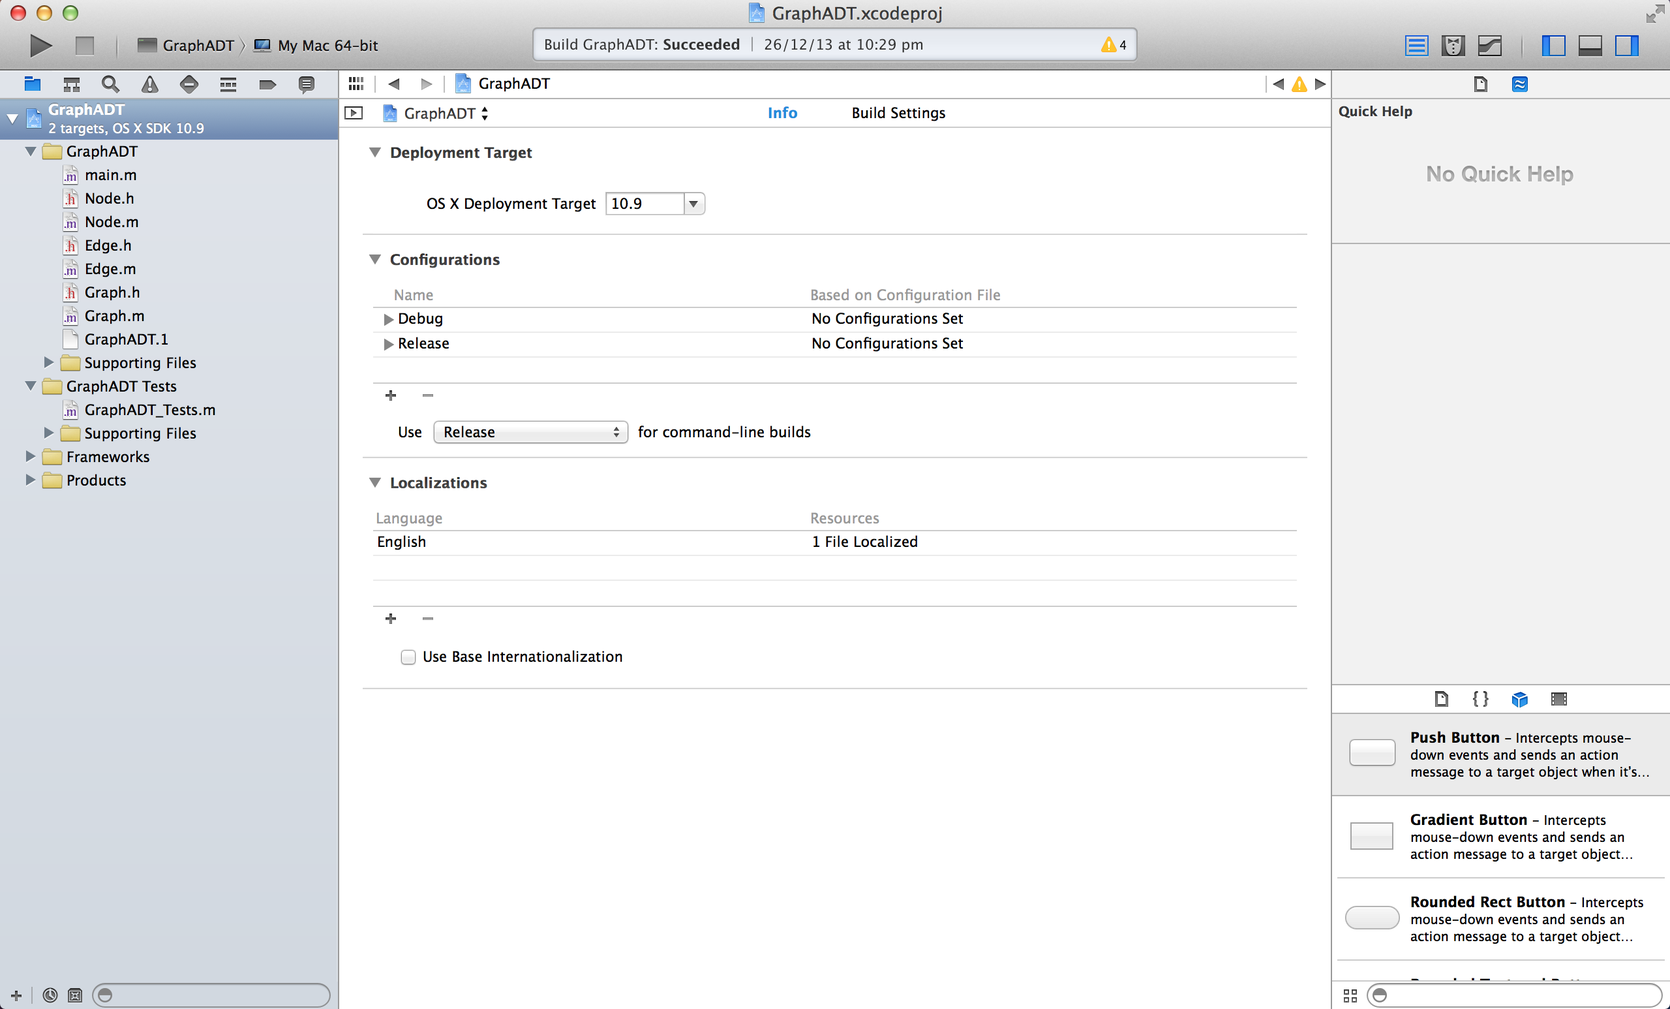
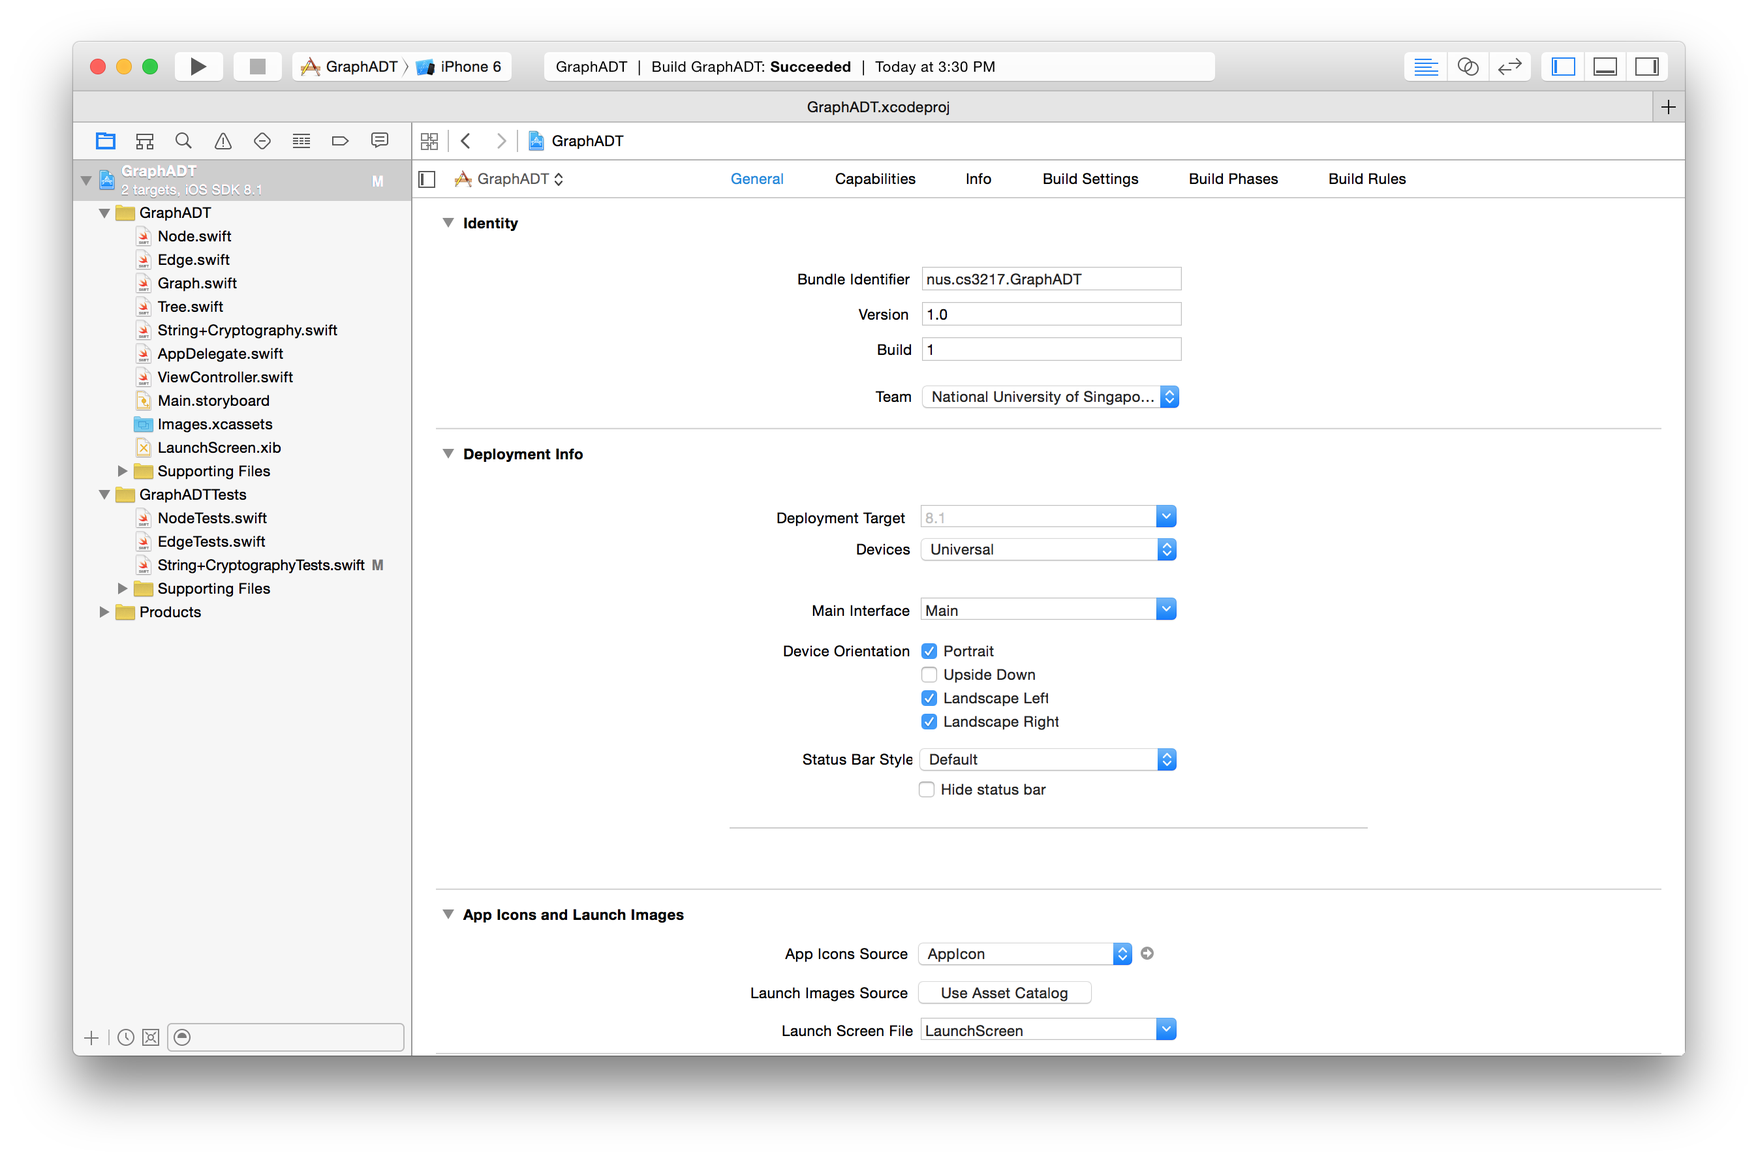
[PS2] Updated problem set's writeup for Swift

diff --git a/public/ps/PS2/PS2.md b/public/ps/PS2/PS2.md
@@ -12,7 +12,7 @@ Section 1 - Introduction
 
 This assignment will prepare you for the application that you are going to build over the next 5 weeks. This application is a bubble puzzle game similar to BubbleMania. The objective is to shoot bubbles of different colours so that they adhere to other bubbles that are already in the game area. Three or more connected bubbles of the same colour will be removed from the game areas. Any bubbles left unattached to the top will also be removed. 
 
-In this assignment, you will practice reading and interpreting specifications, and writing Objective-C code that satisfies our specifications. In addition, you will be given an introduction to using checkRep methods and testing strategies. You will implement three classes and link them with the code provided to complete the implementation of a Graph ADT. You will be required to answer some questions about both the code you are given and the code you need to write.
+In this assignment, you will practice reading and interpreting specifications, and writing Swift code that satisfies our specifications. In addition, you will be given an introduction to using `checkRep` methods and testing in Xcode 6. You will implement three classes and link them with the code provided to complete the implementation of a Graph ADT. You will be required to answer some questions about both the code you are given and the code you need to write.
 
 A video of what your app might look like is shown in Interactive 3.1. Note that while the grading of the problem sets will be done separately, you will eventually have to integrate all the parts together. You should put effort into ensuring that each problem set is fully debugged before you move on or you will run into a lot of problems when you try to integrate all the parts in a few weeks.
 
@@ -22,7 +22,7 @@ A video of what your app might look like is shown in Interactive 3.1. Note that 
 
 You should now have received your distributed iPad. It’s time to try installing an application onto your iPad for testing.
 
-To do so, you must ensure your computer and iPad device is configured for iOS development. Make sure your iPad is plugged in, start Xcode and open Organizer from **Window** menu.If this is the first time using the device for development, select your device in Organizer and press **Use for Development**.
+To do so, you must ensure your computer and iPad device is configured for iOS development. Make sure your iPad is plugged in, start Xcode and open **Devices** from **Window** menu. If this is the first time using the device for development, Xcode 6 will automatically enable Developer Mode on your device.
 
 If there is no certificate created, Xcode will ask you if you want Xcode to submit certificate request automatically. Say YES. Request will show online on developer portal and has to be approved by an admin user. If Xcode does not prompt you to request a certificate, click **Refresh** in **Provisioning Profiles** under **Library**.
 
@@ -36,9 +36,7 @@ If you have a yellow/orange dot, select the iOS Team Provisioning profile and hi
  
 All students use their own certificates, issued on the Mac they connected first. If they wanna use another Mac, they must export and import their profile from Xcode by themselves.
 
-Students may need to install the WWDC certificate authority, which can be downloaded from the online developer portal. 
-
- Once that’s done, let’s try to install a very simple application, in fact, just a blank application. Create a single-view iPad application, named **DeviceTest**. Make sure you fill in `nus.cs3217` (case sensitive) as your company. Then change the target platform from simulator to iPad in the scheme selector in the top part of the IDE. Run your application and see that it can be loaded into iPad to run. Now that you are able to successfully deploy an application on the iPad, you can do the same for your future applications by applying similar steps.
+ Once that’s done, let’s try to install a very simple application, in fact, just a blank application. Create a single-view iPad application, named **DeviceTest**. Make sure you fill in `nus.cs3217` (case sensitive) as your company. Then change the target platform from simulator to your iPad in the scheme selector in the Toolbar. Run your application and see that it can be loaded into iPad to run. Now that you are able to successfully deploy an application on the iPad, you can do the same for your future applications by applying similar steps.
 
 Section 2 - Background
 --
@@ -75,15 +73,17 @@ Interpreting an abstract type involves understanding its specifications -  what 
 
 ### Problem 1: Designing the Graph ADT (20 Points) ###
 
-Now let’s take a look at the first two ADTs, *Node* and *Edge*. You are provided with an Xcode project called `GraphADT` in `problem-set-2/GraphADT`. Double click `ps2.xcodeproj` to open the project template. Read the specifications for *Node* in `Node.h`, representing individual vertices, and for *Edge* in `Edge.h`, representing edges in the graph. Then read over the staff-provided implementations, `Node.m` and `Edge.m`.
+Now let’s take a look at the first two ADTs, *Node* and *Edge*. You are provided with an Xcode project called `GraphADT` in `problem-set-2/GraphADT`. Read the specifications and implementation for *Node* in `Node.swift`, representing individual vertices, and for *Edge* in `Edge.swift`, representing edges in the graph.
 
 Answer the following questions in `design.txt`:
 
 1. The `isEqual:` methods in *Node* and *Edge* require that object != nil. This is because these methods access the fields of 'object' without checking if 'object' is null first. Why do we require `self` to be non-null? What happens when we pass a message to a nil pointer? Explain. **(5 points)**
 
-2. Calls to `checkRep:` are supposed to catch violations in the classes’ invariants. In general, it is recommended that one calls `checkRep:` at the beginning and end of every method. In the case of *Node* and *Edge*, why is it sufficient to call `checkRep:` only at the end of the constructors? (Hint: could a method ever modify a *Node* or *Edge* such that it violates its representation invariant? How are changes to instances of *Node* and *Edge* prevented?) **(5 points)**
+1. Calls to `_checkRep()` are supposed to catch violations in the classes’ invariants. In general, it is recommended that one calls `_checkRep()` at the beginning and end of every method. In the case of *Edge*, why is it sufficient to call `_checkRep()` only at the end of the constructors? (Hint: could a method ever modify a *Edge* such that it violates its representation invariant? How are changes to instances of and *Edge* prevented?) **(5 points)**
 
-3. For *Node* and *Edge*, we could provide a separate method such as `isEquivalentTo:` to test whether two objects represent the same Node or Edge instead of overriding the `isEqual:` method of NSObject. Why is it necessary to override the `isEqual:` methods in these classes? (Hint: methods like `containsObject:`,  `indexOfObject:` for NSArray, and `addObject:` for NSMutableSet call the `isEqual:` method of the collection objects to test for equality). Explain. **(5 points)**
+2. For *Node* and *Edge*, we could provide a method such as `isEqualTo(node:)` or `isEqualTo(edge:)` to test whether two instances represent the same Node or Edge instead of defining the global `==` operator. Why is it necessary to define the operator `==` in global scope? **(5 points)**
+
+3. Why do *Node* and *Edge* have to conform the *Hashable* protocol? **(5 points)**
 
 4. There are several ways to represent a graph. Here are a few:
  * As a collection of edges
@@ -94,13 +94,13 @@ Answer the following questions in `design.txt`:
 
 ### Problem 2: Implementing the Graph ADT (100 Points) ###
 
-Read over the specifications provided for the *Graph* class in `Graph.h`. Make sure that you understand the overview for *Graph* and the specifications for the given methods.
+Read over the specifications provided for the *Graph* class in `Graph.swift`. Make sure that you understand the overview for *Graph* and the specifications for the given methods.
 
-Fill in an implementation for the methods in the definition of *Graph*, according to the specifications. You may define new helper methods in `Graph.m` if you need them. You may not add public methods; the external interface must remain the same. Also implement the private `checkRep:` method to help you test whether or not a *Graph* instance violates the representation invariants. We highly recommend you use `checkRep:` in the code you write. Think about the issues discussed in **Problem 1.2** when deciding where `checkRep:` should be called. **(80 points)**
+Fill in an implementation for the methods in the definition of *Graph*, according to the specifications. You may define new helper methods in `Graph.swift` if you need them. However, you should the declare them as private so they are not exposed to other source files in the project. Also implement the private `_checkRep()` method to help you test whether or not a *Graph* instance violates the representation invariants. We highly recommend you use `_checkRep()` in the code you write. Think about the issues discussed in **Problem 1.2** when deciding where `_checkRep()` should be called. **(80 points)**
 
 Answer the following questions in `design.txt`:
 
-1. Where did you include calls to `checkRep:` (at the beginning of methods, the end of methods, the beginning of constructors, the end of constructors, some other combination)? Why? **(5 points)**
+1. Where did you include calls to `_checkRep()` (at the beginning of methods, the end of methods, the beginning of constructors, the end of constructors, some other combination)? Why? **(5 points)**
 
 2. In Problem 1.4, you have explored the different types of graph representations. Briefly explain why you chose that representation to implement the Graph ADT. **(5 points)**
 
@@ -110,7 +110,7 @@ Answer the following questions in `design.txt`:
 
 ### Problem 3: Testing the Graph ADT (30 Points) ###
 
-It is a very good practice to write unit tests for your ADTs. They help you make sure you don’t break your program when you make changes. The Unit Tests for *Node* and *Edge* have been created for you. Please follow the step-by-step instructions in Gallery 3.1 to run the unit test for Graph ADT.
+It is a must to write unit tests for your ADTs. They help you make sure you don’t break your program when you make changes. The Unit Tests for *Node* and *Edge* have been created for you. Please follow the step-by-step instructions in Gallery 3.1 to run the unit test for Graph ADT.
 
 **Gallery 3.1** Run unit test for GraphADT in Xcode.
 
@@ -120,50 +120,87 @@ It is a very good practice to write unit tests for your ADTs. They help you make
 
 ![Test Project](/ps/ps2/img/2-2.png)
 
-**Step 2:** Then, select `Product -> Test` (or use the ⌘+U shortcut key) to perform unit testing.
+**Step 2:** Then, select **Product → Test** (or use the ⌘+U shortcut key) to perform unit testing.
 
 ![Test Results](/ps/ps2/img/2-3.png)
 
-**Step 3:** Check your test results by switching to the **Log Navigator** and select the first item *Test* under *GraphADT*. If you have done everything correctly, you should see a series of green checks indicating all the unit tests have passed successfully.
+**Step 3:** Check your test results by switching to the **Test Navigator**. If you have done everything correctly, you should see a series of green checks indicating all the unit tests have passed successfully.
 
-Now, you are required to add your own unit test cases for the methods of *Graph* in `GraphADT_Tests.m`. Make sure your implementation passes all the test cases you provide. Do note that this is not a time-wasting practice! It gives you peace of mind by minimising your bugs before submission. :) **(30 points)**
+Now, you are required to add your own unit test cases for the methods of *Graph* in `GraphTests.swift`. Make sure your implementation passes all the test cases you provide. Do note that this is not a time-wasting practice! It gives you peace of mind by minimising your bugs before submission. :) **(30 points)**
 
 ### Problem 4: Extending the Graph ADT (50 Points) ###
 In this problem, you are going to use a tree to cipher and decipher texts. The cipher and decipher functions are defined as follows:
 
-* **Cipher**: perform string-to-tree with breadth first and then tree-to-string with depth-first
-* **Decipher**: perform string-to-tree with depth first and then tree-to-string with breadth-first
+* **Cipher**: perform string-to-tree with breadth-first order and then tree-to-string with depth-first order
+* **Decipher**: perform string-to-tree with depth-first order and then tree-to-string with breadth-first order
 
-In order to perform the string-to-tree conversions, you will be provided with a **key**. This key specifies the number of children for every letter in the string. 
+In order to perform the string-to-tree conversions, you will be provided with a **key**. This key specifies the number of children for every letter in the string (or the number of children of each node in the intermediate tree). The intermediate tree is a perfect tree which means that:
 
-As an example, consider the string **HELLO WORLD**. When performing the cipher operation with the **key as 2**, the breadth-first string-to-tree conversion would result in the following tree:
+ - Every node other than the leaves has exactly k children.
+ - All leaves have the same depth.
+
+For example, consider the string **HELLO WORLD**. When performing the cipher operation with the **key as 2**, the breadth-first string-to-tree conversion would result in the following tree:
 
 ![Cipher Tree](/ps/ps2/img/cipher-tree.png)
 
-Here, we need to append some 'special nodes' to the end of the tree to conform to the key. In the given example, **+** denotes a whitespace while ***** represents a special node. 
+In order to create a perfect binary tree, we need to append some 'special nodes' with a string label **\*** to the end of the tree to conform to the key. You can assume that the input string has no **\*** character. (Note that the empty node in the diagram represents the space in the original string.)
 
-In the second part of the cipher operation, this tree is converted to a string using the depth-first approach. This would result in the following string: **HELOROLDL \*\*W\*\***. 
+In the second part of the cipher operation, this tree is converted to a string using the depth-first approach. This would result in the following string: **HELOROLDL \*\*W**. Note that the special characters must be removed if they appears at the end of the string after the conversion.
 
-If this resultant string is used as the input for the decipher operation using the same key, then it should give back the initial string i.e. **HELLO WORLD**.
+If this resultant string is used as the input for the decipher operation using the same key, it should give back the initial string i.e. **HELLO WORLD**.
 
 Now, follow the steps described below to implement the cipher/decipher functionalities:
 
-1. First, you must design and implement an ADT for a *Tree* in new files named `Tree.h` and `Tree.m`. You may extend the Graph ADT used in the previous problems or use a different representation for the *Tree*. You should provide a suitable specification for the ADT and also define the representation invariant properly. You may add new files to the project to support your implementation. However, you are required to mention them in `design.txt`.
+1. First, you must design and implement a Tree ADT in `Tree.swift`. You may extend the Graph ADT created in the previous problems or use a different representation for the *Tree*. You should provide a suitable specification for the ADT and also define the representation invariant properly. You may add new files to the project to support your implementation. However, you are required to mention them in `design.txt`.
 
-2. Now, write a class category for NSString that implements the following two methods:
+2. Write a class extension for `String` in `String+Cryptograph.swift` that implements the following 4 methods:
 
- - `- (Tree*)breadthFirstStringToTree:(NSNumber*)key`
- - `- (Tree*)depthFirstStringToTree:(NSNumber*)key`
+```
+
+   //  Return a string encrypted by using `key`.
+   func cipherWithKey(key: Int) -> String
+
+   //  Return a string decrypted by using `key`.
+   func decipherWithKey(key: Int) -> String
+
+   //  Return a tree with String labels such that when performing 
+   //  a breath-first traversal on this tree, its labels appear in 
+   //  the same order that they appear from left to right of the 
+   //  string `self`.
+   //
+   //  In other words,
+   //  str.breadthFirstToTreeWithNumberOfChildren(n).breadthFirstToString() == str
+   func breadthFirstToTreeWithNumberOfChildren(numberOfChildren: Int) -> Tree<String>
+
+   //  Return a tree with String labels such that when performing 
+   //  a depth-first traversal on this tree, its labels appear in
+   //  the same order that they appear from left to right of the 
+   //  string `self`.
+   //
+   //  In other words,
+   //  str.depthFirstToTreeWithNumberOfChildren(n).depthFirstToString() == str
+   func depthFirstToTreeWithNumberOfChildren(numberOfChildren: Int) -> Tree<String>
+
+```
 
  Your algorithm will need to append the 'special nodes' to the end of the tree to conform to the keys.
 
-3. Add the following two methods to the *Tree* ADT you had implemented earlier:
- - `- (NSString*)breadthFirstTreeToString:(NSNumber*)key`
- - `- (NSString*)depthFirstTreeToString:(NSNumber*)key`
+3. Implement the following two methods in the extension of the *Tree* ADT in `Tree.swift`:
 
- Your algorithm will need to deal with the 'special nodes' in the tree appropriately.
+```
+   //  Return a string that represents the tree when it is traversed
+   //  in breadth-first order.
+   func breadthFirstToString() -> String
+ 
+   //  Return a string that represents the tree when it is traversed
+   //  in depth-first order.
+   func depthFirstToString() -> String
+```
 
-4. Write appropriate test cases in `GraphADT_Tests.m` to test the cipher and decipher functionalities. Keep in mind that given a string, performing the cipher operation followed by the decipher operation using the same key should produce the same string.  
+ Your algorithm will need to deal with the 'special nodes' in the tree appropriately. Remember that those special nodes with the label **\*** should not appear at the end of the converted string. Also you can assume that nodes' labels are convertible to String and can be concatenated into a final String. The label of type `T` can be 
+converted to a String via String interpolationn e.g. "\(node.label)".
+
+4. Write appropriate test cases in `TreeTests.swift` and `String+CryptographyTests.swift` to test the Tree ADT, the cipher and decipher functionalities. Keep in mind that given a string, performing the cipher operation followed by the decipher operation using the same key should produce the same string.  
 
 ### Bonus Problem: Reflection (3 Bonus Points) ###
 Please answer the following questions:
@@ -179,10 +216,9 @@ Section 4 - Grading and Submission
 Please read this section carefully so that you fully understand the grading scheme and the mode of submission!
 
 ### Grading Scheme ###
-The simplest way to ensure that you get a good grade on your assignment is to simply go through the list of testing items. Most of the reasons we mark an assignment down could very easily be avoided by simply taking a few minutes to go through each of the testing points before submitting. For this assignment, testing/ grading will be done by running the project in the simulator. We will be looking out for the following:
+The simplest way to ensure that you get a good grade on your assignment is to simply go through the list of testing items. Most of the reasons we mark an assignment down could very easily be avoided by simply taking a few minutes to go through each of the testing points before submitting. For this assignment, testing/ grading will be done by running the project through your set of test cases and then our additional ones. We will be looking out for the following:
 
 - Your submission should adhere to the submission format.
-- Your interface must be neat.
 - You have answered the questions correctly in a concise manner.
 - Your project should build without errors or warnings.
 - Your project should run without crashing.
@@ -194,11 +230,11 @@ Like Problem Set 1, you will be using a pilot locally hosted [GitLab](http://cs3
 
 The Xcode project for this problem set will be located in the group [Problem Sets 2014](http://cs3217.comp.nus.edu.sg/groups/problem-sets-2014) under `Problem Set 2`. You should first **fork** the project to your own private workspace, and then **clone** the project to your computer.
 
-When you begin working, your Xcode project will grow to contain files that are user-specific, and should not be committed to a revision control system. You can tell Git to ignore files by writing their definitions in `.gitignore` in the root of a Git repository. This has already been done for you, and the definitions we have used are taken from [GitHub's Swift gitignore](https://github.com/github/gitignore/blob/master/Swift.gitignore).
+When you begin working, your Xcode project will create files that are user-specific, and should not be committed to a revision control system. You can tell Git to ignore these files by writing their definitions in `.gitignore` in the root of a Git repository. This has already been done for you, and the definitions we have used are taken from [GitHub's Swift gitignore](https://github.com/github/gitignore/blob/master/Swift.gitignore).
 
 **Important Note:** All the required files should be inside the Xcode project that you have forked and cloned. We should be able to download the entire repository, import it into Xcode, and run your solution without making additional changes. You will be graded on the **latest commit** before the deadline.
 
-Even though your tutors will be reading every single line of your code, we will be doing high-level tests of your code using an automated grading script. Points may be taken off if the script fails due to unauthorised changes you may have made in the driver program.
+Even though your tutors will be reading every single line of your code, we will be testing your code using our set of test cases. Points may be taken off if our tests fails due to unauthorised changes you may have made to the provided struct, class and extension declarations.
 
 Clarifications and questions related to this assignment may be directed to the IVLE Forum under the header **‘Problem Set 2: Swift & Coding to Specifications’**.
 
